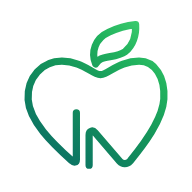
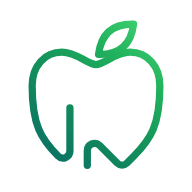
Nutriin: знакът — геометричен чертеж (scripts/build-mark.mjs): симетрична ябълка, диагонал 45°, радиусни заобляния, обща долна линия
Claude-Session: https://claude.ai/code/session_01AAmbBaVt2HSrok4C214enD

Changed region(s): [[0.125, 0.0938, 0.875, 0.9062], [0.6875, 0.6562, 0.8125, 0.8125]]

diff --git a/design-system.css b/design-system.css
@@ -1936,7 +1936,7 @@ nav.bottom-nav .bottom-nav-item:focus-visible {
    <span class="ex-logo" role="img" aria-label="Nutriin"></span>  (хоризонтално, следва темата)
    <span class="ex-mark"></span>                                         (само знакът)
    =========================== */
-.ex-logo { display: inline-block; height: 28px; aspect-ratio: 3484 / 1000; background: var(--brand-logo) left center / contain no-repeat; vertical-align: middle; }
+.ex-logo { display: inline-block; height: 28px; aspect-ratio: 3406 / 1000; background: var(--brand-logo) left center / contain no-repeat; vertical-align: middle; }
 .ex-mark { display: inline-block; width: 28px; height: 28px; background: url('brand/nutriin-mark.svg') center / contain no-repeat; vertical-align: middle; }
 .ex-gradient-text { background: var(--brand-gradient); -webkit-background-clip: text; background-clip: text; color: transparent; }
 
